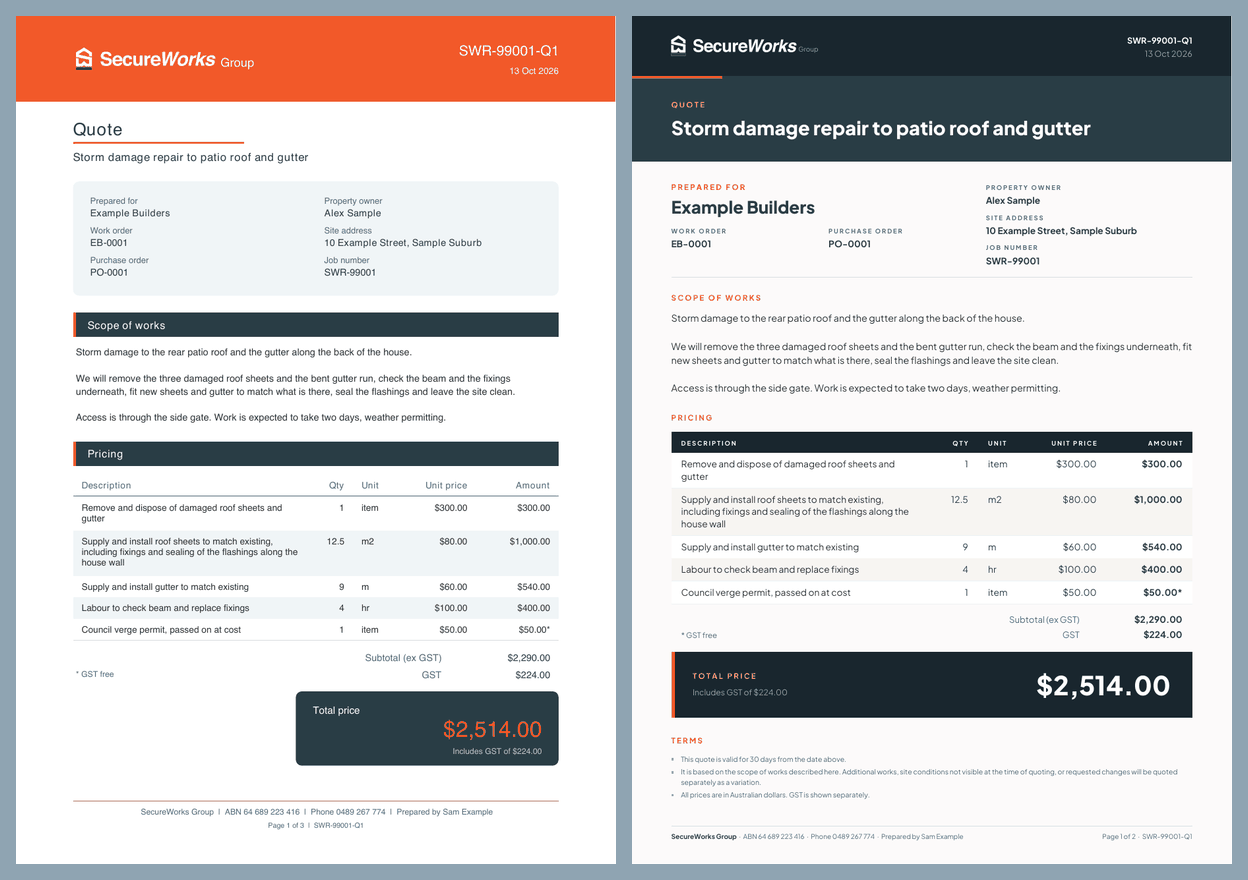
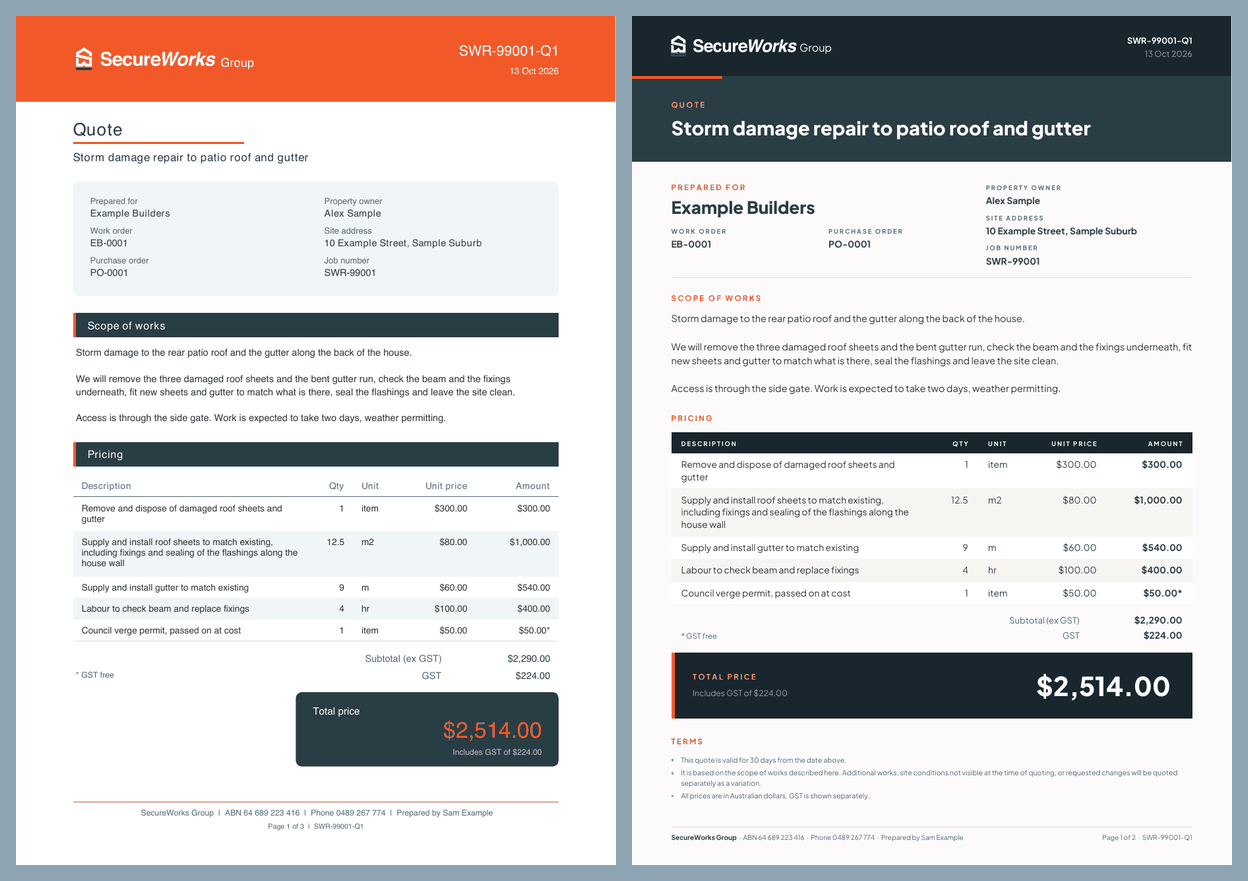
no-mistakes(review): Block PDF on font failure, legible Group, squashed leak checks

diff --git a/tests/e2e/app.spec.js b/tests/e2e/app.spec.js
@@ -1,7 +1,7 @@
 'use strict';
 const { test, expect } = require('@playwright/test');
 const { seed, install } = require('./fake-backend');
-const { pdfWords } = require('./pdf-text');
+const { pdfWords, squash } = require('./pdf-text');
 
 let db;
 
@@ -101,7 +101,9 @@ test('scope a repair job: costs on top, client charge below, autosave, issue a P
   expect(pdf).toContain('Prepared by Hugo Tester');
   expect(pdf).toContain('This quote is valid for 30 days');
   // No licence or insurance claim prints until the owner supplies the wording.
+  // The labels are letter-spaced, so the squashed text is checked as well.
   expect(pdf).not.toMatch(/licen[cs]ed|insured/i);
+  expect(squash(pdf)).not.toMatch(/licen[cs]ed|insured/);
   // Internal costs never reach the client PDF.
   for (const secret of ['Remove and dispose damaged fascia', 'Carpenter labour', 'Bunnings', 'Dave the chippy', '$485.00']) expect(pdf).not.toContain(secret);
 
@@ -602,6 +604,41 @@ test('a late load of the same job does not replace the open editor\'s job data: 
   expect(pdf).toContain('Site photos');
 });
 
+test('a quote font that will not load stops the preview and the issue: no PDF is made, uploaded or frozen', async ({ page }) => {
+  await capturePdfs(page);
+  await signIn(page);
+  await page.click('.job-card:has-text("SWR-26103")');
+  await typeLine(page.locator('.line.charge').nth(0), { description: 'Replace fascia', qty: 1, unit: 'item', price: 650 });
+  await expect(page.locator('.save-state')).toContainText('Saved as version 1', { timeout: 10000 });
+
+  let fontDown = true;
+  await page.route('**/assets/fonts/PlusJakartaSans-ExtraBold.ttf', (route) => fontDown ? route.fulfill({ status: 404 }) : route.fallback());
+  await page.evaluate(() => { window.open = () => null; });
+
+  await page.click('button:has-text("Preview client PDF")');
+  await expect(page.locator('.toast')).toHaveText('Could not make the PDF: The quote font could not be loaded. Check your signal and try again.', { timeout: 20000 });
+  expect(await page.evaluate(() => window.__pdfs.length)).toBe(0);
+
+  await page.click('button:has-text("Issue client quote")');
+  await page.click('.modal button:has-text("Issue")');
+  await expect(page.locator('.modal h2')).toHaveText('Not issued', { timeout: 20000 });
+  await expect(page.locator('.modal')).toContainText('The quote font could not be loaded. Check your signal and try again.');
+  await page.click('.modal button:has-text("OK")');
+  expect(await page.evaluate(() => window.__pdfs.length)).toBe(0);
+  expect(Object.keys(db.files).filter((k) => k.startsWith('job-pdfs/'))).toHaveLength(0);
+  expect(calls('quote_builder_issue')).toHaveLength(0);
+  expect(db.versions[0].status).toBe('draft');
+  expect(db.documents).toHaveLength(0);
+
+  // The font loads again: trying again issues the quote, in the template's typeface.
+  fontDown = false;
+  await page.click('button:has-text("Issue client quote")');
+  await page.click('.modal button:has-text("Issue")');
+  await expect(page.locator('.modal h2')).toHaveText('Issued SWR-26103-Q1', { timeout: 20000 });
+  const issued = db.files[Object.keys(db.files).find((k) => k.startsWith('job-pdfs/'))].body;
+  expect(issued.toString('latin1')).toContain('PlusJakartaSans');
+});
+
 test('a line with a supplier but no description is flagged on screen and blocks issuing', async ({ page }) => {
   await signIn(page);
   await page.click('.job-card:has-text("SWR-26103")');
@@ -827,6 +864,7 @@ test('scope of works prints the client lines with their quantities, no dollar am
   // Nothing from the cost table: no Labour allowed section, not its 8 hours, no dollar amount, no supplier.
   expect(scope).not.toContain('$');
   expect(scope.toLowerCase()).not.toContain('labour allowed');
+  expect(squash(scope)).not.toContain('labourallowed');
   expect(scope).not.toContain('8 hours');
   expect(cells).not.toContain('8');
   for (const secret of ['Bunnings', 'Stratco', 'Dave the chippy', 'Skip hire co']) expect(scope).not.toContain(secret);

diff --git a/js/pdf.js b/js/pdf.js
@@ -39,8 +39,6 @@
   var FONT_FILES = { normal: 'PlusJakartaSans-Regular.ttf', bold: 'PlusJakartaSans-Bold.ttf', extrabold: 'PlusJakartaSans-ExtraBold.ttf' };
 
   var logoCache = null, fontCache = null;
-  // The typeface of the document being built: the template's, or Helvetica when it did not load.
-  var face = 'helvetica';
 
   function blobToDataUrl(blob) {
     return new Promise(function (resolve, reject) {
@@ -62,19 +60,18 @@
   }
 
   // Plus Jakarta Sans ships in assets/fonts (SIL Open Font License) so the PDF never waits
-  // on a font from another site. If a file will not load, the PDF is still made, in Helvetica.
+  // on a font from another site. If a file will not load, no PDF is made: a quote in any
+  // other typeface is off the template and must never be issued.
   async function loadFonts() {
     if (fontCache) return fontCache;
-    try {
-      var out = {};
-      for (var style in FONT_FILES) {
-        var res = await fetch('assets/fonts/' + FONT_FILES[style]);
-        if (!res.ok) return null;
-        out[style] = (await blobToDataUrl(await res.blob())).split(',')[1];
-      }
-      fontCache = out;
-      return fontCache;
-    } catch (e) { return null; }
+    var out = {};
+    for (var style in FONT_FILES) {
+      var res = await fetch('assets/fonts/' + FONT_FILES[style]).catch(function () { return null; });
+      if (!res || !res.ok) throw new Error('The quote font could not be loaded. Check your signal and try again.');
+      out[style] = (await blobToDataUrl(await res.blob())).split(',')[1];
+    }
+    fontCache = out;
+    return fontCache;
   }
 
   // Load a photo and shrink it so the PDF stays small enough to upload from a phone signal.
@@ -100,20 +97,16 @@
 
   function newDoc(fonts) {
     var doc = new window.jspdf.jsPDF({ unit: 'mm', format: 'a4', compress: true });
-    face = 'helvetica';
-    if (fonts) {
-      Object.keys(FONT_FILES).forEach(function (style) {
-        doc.addFileToVFS(FONT_FILES[style], fonts[style]);
-        doc.addFont(FONT_FILES[style], FONT, style);
-      });
-      face = FONT;
-    }
+    Object.keys(FONT_FILES).forEach(function (style) {
+      doc.addFileToVFS(FONT_FILES[style], fonts[style]);
+      doc.addFont(FONT_FILES[style], FONT, style);
+    });
     return doc;
   }
 
-  // weight is 'normal', 'bold' or 'extrabold'; Helvetica has no extra bold, so it gets bold.
+  // weight is 'normal', 'bold' or 'extrabold'.
   function type(doc, weight, size, color) {
-    doc.setFont(face, face === FONT || weight === 'normal' ? weight : 'bold');
+    doc.setFont(FONT, weight);
     doc.setFontSize(size);
     if (color) doc.setTextColor.apply(doc, color);
   }
@@ -150,8 +143,8 @@
     var logoH = 9, logoW = logoH * (1600 / 319);
     if (logo) {
       doc.addImage(logo, 'PNG', MARGIN - 1, mid - logoH / 2, logoW, logoH);
-      type(doc, 'normal', 6.5, SOFT);
-      doc.text('Group', MARGIN - 1 + logoW + 0.4, mid + 2.1);
+      type(doc, 'normal', 10.5, WHITE);
+      doc.text('Group', MARGIN - 1 + logoW + 0.8, mid + 2.1);
     } else {
       type(doc, 'extrabold', 15, WHITE);
       doc.text('SecureWorks Group', MARGIN, mid + 1.9);
@@ -339,10 +332,10 @@
     };
 
     band(doc, logo, quoteNumber, dateText);
-    var heading = variation ? 'Variation quote' : 'Quote';
+    var docTitle = variation ? 'Variation quote' : 'Quote';
     var y = hero(doc, {
-      eyebrow: v.title ? heading : '',
-      title: v.title || heading,
+      eyebrow: v.title ? docTitle : '',
+      title: v.title || docTitle,
       note: variation && opts.variationNumber ? 'Variation ' + opts.variationNumber + ' to the works on job ' + (job.job_number || '') : ''
     });
 

diff --git a/tests/e2e/pdf-layout.spec.js b/tests/e2e/pdf-layout.spec.js
@@ -53,7 +53,7 @@ const TERMS = [
 test('the client quote still prints every piece of the quote, in the same order, and nothing new', async ({ page }) => {
   const bytes = await render(page, 'render', fx.quote(), 2);
   save('template-quote', bytes);
-  // The template's typeface is in the file: a quote that fell back to Helvetica would not have it.
+  // The template's typeface is in the file.
   expect(bytes.toString('latin1')).toContain('PlusJakartaSans');
 
   const pages = await pdfPages(bytes);
@@ -95,7 +95,9 @@ test('the client quote still prints every piece of the quote, in the same order,
   });
 
   // The fence and patio quotes carry blocks this tool has no data for. None of them is made up here.
+  // The labels are letter-spaced, so the squashed text is checked as well.
   expect(all).not.toMatch(/deposit|payment|accept|warrant|licen[cs]ed|insured|balance|bank|holds until/i);
+  expect(labels).not.toMatch(/deposit|payment|accept|warrant|licen[cs]ed|insured|balance|bank|holdsuntil/);
 });
 
 test('a variation quote for a private client keeps its own headings and contact lines', async ({ page }) => {

diff --git a/AGENTS.md b/AGENTS.md
@@ -8,7 +8,7 @@ This file is the project's committed home for project-intrinsic agent knowledge:
 - Internal cost lines and any figure from the cost table (the Labour allowed total included) must never reach the client PDF or the scope of works PDF (`renderScope` strips the cost lines). The scope of works prints the client lines with quantity and unit as the client quote does, hours included; Hugo edits a client line to hide them. The material order list is the one internal document. The PDF tests read the real file back with pdf.js (`tests/e2e/pdf-text.js`): the leak checks are in `tests/e2e/app.spec.js`, content and page breaks in `tests/e2e/pdf-layout.spec.js`.
 - Tests: `npm test` (`PORT=<free port> npm test` when 4517 is taken; the tests never reuse a running server). E2E uses Playwright's own Chrome for Testing against `tests/e2e/fake-backend.js` (keep it in step with the contract). Never point tests or rendering at the everyday Chrome app.
 - Brand: the business name is SecureWorks Group. `assets/logo-white.png` has the old "WA" mark cropped off; "Group" is drawn as text beside it.
-- The three PDFs follow the fence and patio quote template: source, stills and the template blocks left out are in `docs/quote-template/README.md`. Its typeface ships in `assets/fonts` (the PDF falls back to Helvetica without it). The small capital labels are the document's own fixed words: never upper-case what a person typed, and never add a template block this tool has no data for.
+- The three PDFs follow the fence and patio quote template: source, stills and the template blocks left out are in `docs/quote-template/README.md`. Its typeface ships in `assets/fonts` (no PDF is made if it does not load). The small capital labels are the document's own fixed words: never upper-case what a person typed, and never add a template block this tool has no data for.
 
 ## Maintaining this file
 

diff --git a/docs/quote-template/README.md b/docs/quote-template/README.md
@@ -34,5 +34,6 @@ The quote builder holds no data for these, so they are not printed and nothing i
 ## Brand assets
 
 - Logo: `assets/logo-white.png`, as before. The template uses an SVG logo with "Group" in the lockup; this repo does not have it, so "Group" is still drawn as text beside the mark.
-- Typeface: Plus Jakarta Sans regular, bold and extra bold in `assets/fonts`, under the SIL Open Font License (`assets/fonts/OFL.txt`). It is the Google font the fence and patio pages already load. The PDF needs the font files themselves, so they ship here.
+- "Group" is drawn larger and brighter than the template draws it. The template sets it at about half the height of the wordmark in 60% white, which is too faint to read on the navy band. Here it is 10.5 pt in full white, so the band reads "SecureWorks Group" at a glance.
+- Typeface: Plus Jakarta Sans regular, bold and extra bold in `assets/fonts`, under the SIL Open Font License (`assets/fonts/OFL.txt`). It is the Google font the fence and patio pages already load. The PDF needs the font files themselves, so they ship here. If a font file does not load, no PDF is made and the app says to try again: a quote is never previewed or issued in another typeface.
 - No brand photographs were added.
